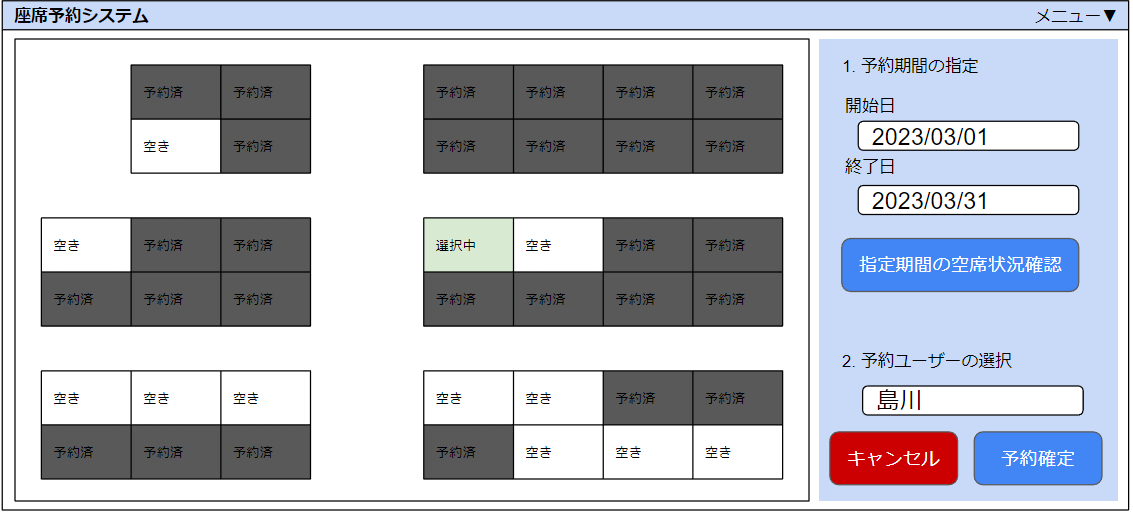
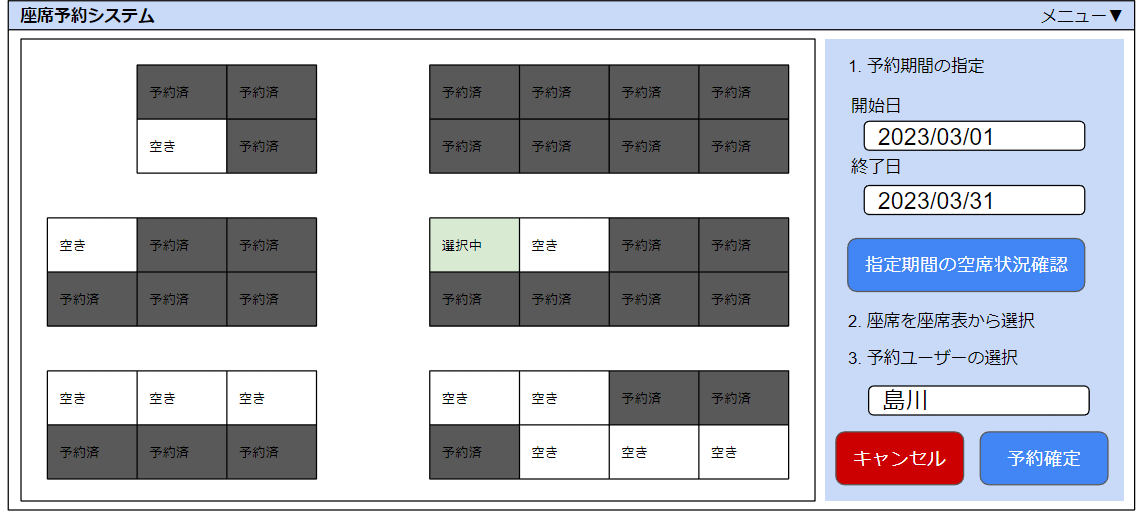
新規座席予約　設計完了

diff --git a/design/006_新規座席予約/基本設計書_新規座席予約.md b/design/006_新規座席予約/基本設計書_新規座席予約.md
@@ -1,0 +1,60 @@
+# 新規座席予約
+# 機能概要
+新規座席予約を行う。  
+1. 期間の指定
+2. 空席確認
+3. 予約する座席の選択
+4. 予約するユーザーの選択
+5. 予約確定
+# 画面レイアウト
+![画面レイアウト_新規座席予約](https://github.com/cuorain/SeatReservationSystem/blob/design/design/006_%E6%96%B0%E8%A6%8F%E5%BA%A7%E5%B8%AD%E4%BA%88%E7%B4%84/image/%E7%94%BB%E9%9D%A2%E3%83%AC%E3%82%A4%E3%82%A2%E3%82%A6%E3%83%88_%E6%96%B0%E8%A6%8F%E5%BA%A7%E5%B8%AD%E4%BA%88%E7%B4%84.png)
+# 画面項目説明
+* 座席表  
+座席が空いているかどうかが表示される。  
+予約したい席を選択する。
+* 開始日  
+予約開始日を指定する。  
+日付ピッカーを使用する。  
+デフォルト値は本日の日付。
+* 終了日  
+予約終了日を指定する。  
+日付ピッカーを使用する。  
+デフォルト値は本日の日付。
+* 指定期間の空席状況確認　- ボタン  
+開始日～終了日の間がすべて空いている席を表示するように、座席表を更新する。  
+* 予約ユーザー  
+予約したいユーザーを選択する。  
+デフォルトでは、空。  
+ユーザー一覧の小画面が表示され、そこで選択したユーザーの名前が入力される。
+* キャンセル - ボタン  
+座席表画面に戻る
+* 予約確定 - ボタン  
+予約を実行する。
+# 機能要件
+* 画面の初期表示時、本日の日付で空席状況を表示しておく。
+* 空席状況確認ボタン押下時、以下のチェックを行い、該当するエラーメッセージを出力する。  
+エラーがない場合は、座席表の更新を行う。  
+    * 開始日、終了日は必須。  
+    メッセージID='E0002' 、\<item1\> ＝ 項目名 
+    * 指定期間が逆転している場合  
+    メッセージID='E0009'
+    * 不正な日付を入力  
+    メッセージID='E0008'  
+* 予約済の座席は非活性となり、選択できない。  
+* 選択できる座席は１つのみ。  
+１つ選択した状態で別の座席を選択した場合は、もともと選択していた座席の選択は解除される。
+* 選択した状態で、空席状況確認ボタンを押下した場合、選択はリセットされる。
+* 予約ユーザー欄を選択したとき、ユーザー一覧画面のダイアログが表示される。  
+そこで選択したユーザーが設定される。
+* 予約確定ボタン押下時、以下のチェックを行い、該当するエラーメッセージを出力する。  
+エラーがない場合は、座席予約を行う。  
+    * 開始日、終了日、座席、予約ユーザーは必須。  
+    メッセージID='E0002' 、\<item1\> ＝ 項目名 
+    * 指定期間が逆転している場合  
+    メッセージID='E0009'
+    * 不正な日付を入力  
+    メッセージID='E0008'  
+    * 予約が重複した場合(サーバー側でのみチェック)  
+    メッセージID='E0010'
+
+ 

diff --git a/design/一般/メッセージ一覧.md b/design/一般/メッセージ一覧.md
@@ -15,4 +15,8 @@
 * E0007  
 新しいパスワードと新しいパスワード(確認)が一致しません。
 * E0008  
-表示日の入力値が不正です。入力し直してください。
+日付の入力値が不正です。
+* E0009  
+日付の大小関係が逆転しています。
+* E0010  
+予約が重複しています。予約をやり直してください。

diff --git a/design/005_座席表/基本設計書_座席表.md b/design/005_座席表/基本設計書_座席表.md
@@ -10,6 +10,7 @@
 空きには、空きがわかるような表記or表現をする。(レイアウトは一例)
 * 表示日  
 表示する日付を選択する。  
+日付ピッカーを使用する。  
 デフォルトは今日の日付。
 * 新規座席予約  
 新規座席予約画面に遷移する。
